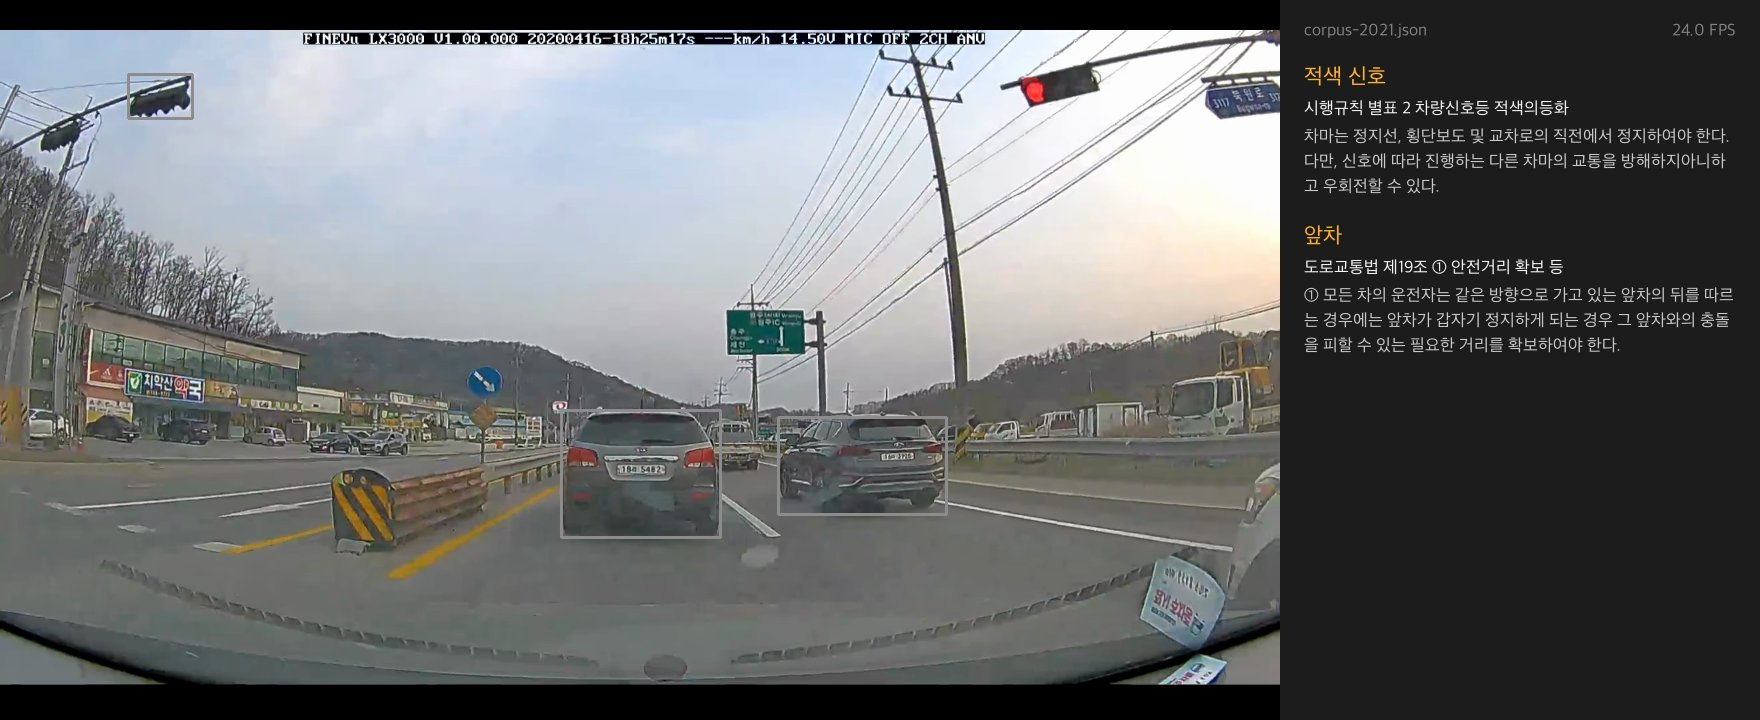
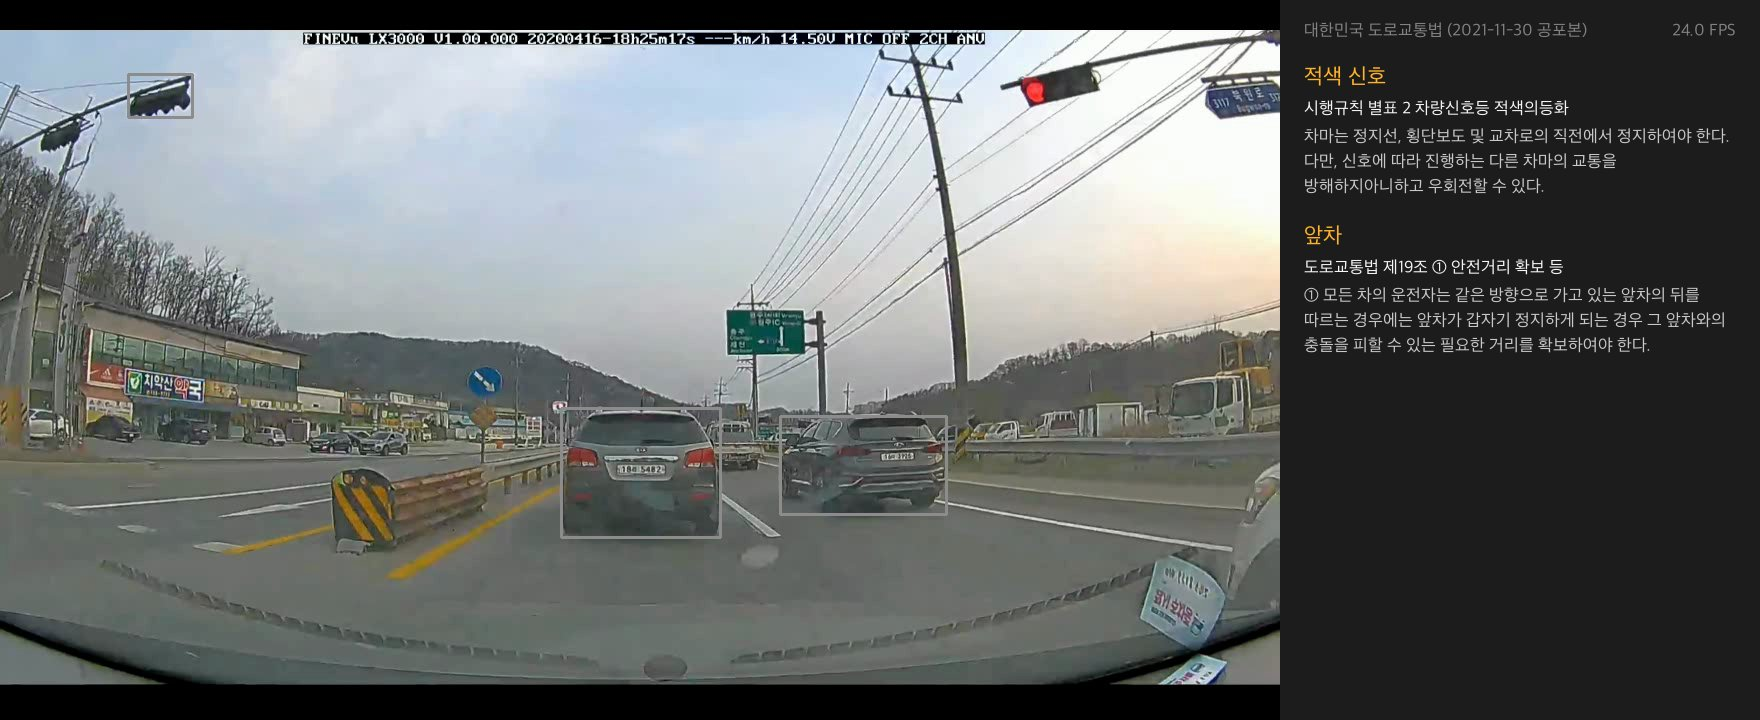
docs: 캘리포니아 코퍼스와 비벌리힐스 시연 영상 문서화

diff --git a/Project03/README.md b/Project03/README.md
@@ -2,13 +2,25 @@
 
 주행 영상에서 YOLO로 차량, 보행자, 신호등을 찾습니다. 찾은 객체를 "적색 신호", "앞차" 같은 장면 상태로 바꿉니다. 장면 상태마다 도로교통법 코퍼스를 BM25로 검색하고, 근거 조문을 화면 오른쪽에 보여 줍니다.
 
-모델이 학습한 지식 대신 실제 법령 문서를 근거로 판단을 보여 주는 Retrieval-Augmented 구조입니다. 법령이 개정되면 모델을 다시 학습하지 않습니다. 코퍼스 파일만 바꾸면 같은 영상에서 다른 조문이 나옵니다.
+모델이 학습한 지식 대신 실제 법령 문서를 근거로 판단을 보여 주는 Retrieval-Augmented 구조입니다. 법령이 개정되거나 다른 나라에서 달리면 모델을 다시 학습하지 않습니다. 코퍼스 파일만 바꾸면 같은 영상에서 그 판, 그 나라의 조문이 나옵니다. 코퍼스는 한국 도로교통법 현행판, 2021년판, 캘리포니아 차량법(California Vehicle Code) 세 개입니다.
+
+**같은 장면, 다른 판.** 원주 영상의 적색 신호 장면입니다.
 
 | 현행 코퍼스 (`corpus-current.json`) | 2021년 코퍼스 (`corpus-2021.json`) |
 |---|---|
 | ![현행 코퍼스의 적색 신호 조문](docs/red-signal-current.jpg) | ![2021년 코퍼스의 적색 신호 조문](docs/red-signal-2021.jpg) |
 
-같은 적색 신호 장면입니다. 현행 시행규칙 별표 2는 우회전하기 전에 정지선 직전에서 정지하라고 정합니다. 2021년 판은 정지 없이 우회전할 수 있다고 정합니다. 두 화면은 영상 110.5초 프레임을 저장한 것입니다. 화면 오른쪽 위 FPS 값은 저장용 스크립트가 넣은 고정값이며 측정값이 아닙니다.
+현행 시행규칙 별표 2는 우회전하기 전에 정지선 직전에서 정지하라고 정합니다. 2021년 판은 정지 없이 우회전할 수 있다고 정합니다.
+
+**같은 장면, 다른 나라.** 비벌리힐스 영상의 적색 신호와 보행자 장면입니다.
+
+| 현행 코퍼스 | 2021년 코퍼스 | 캘리포니아 코퍼스 (`corpus-california.json`) |
+|---|---|---|
+| ![현행 코퍼스의 비벌리힐스 장면](docs/beverly-current.jpg) | ![2021년 코퍼스의 비벌리힐스 장면](docs/beverly-2021.jpg) | ![캘리포니아 코퍼스의 비벌리힐스 장면](docs/beverly-california.jpg) |
+
+보행자 패널은 현행 제27조 ①("통행하려고 하는 때"를 포함), 2021년 제27조 ①, 캘리포니아 차량법 21950조 (a)를 보여 줍니다. 적색 신호 패널은 캘리포니아에서 21453조 (b)("after stopping … may turn right")를 보여 줍니다.
+
+그림 다섯 장은 원주 시연 영상 25.5초(원본 111.5초)와 비벌리힐스 시연 영상 46초(원본 486초) 프레임을 저장한 것입니다. 화면 오른쪽 위 FPS 값은 저장용 스크립트가 넣은 영상 FPS이며 처리 속도 측정값이 아닙니다.
 
 ## 파일 구조
 
@@ -18,12 +30,14 @@ Project03/
 ├── detect.py            YOLO 탐지 결과를 장면 상태로 바꿈, 신호등 색 판정(HSV)
 ├── retrieve.py          BM25 검색기와 장면 상태별 검색 문장
 ├── hud.py               탐지 박스와 근거 조문 패널 그리기
-├── build_corpus.py      국가법령정보 Open API로 코퍼스 JSON 생성 (Mac에서 한 번 실행)
+├── build_corpus.py      코퍼스 JSON 세 개 생성 (Mac에서 한 번 실행)
 ├── corpus-current.json  현행 도로교통법(항 단위)과 시행규칙 별표 2(신호 종류 단위)
 ├── corpus-2021.json     2022년 1월 개정 직전 공포본으로 만든 같은 구성의 코퍼스
+├── corpus-california.json  캘리포니아 차량법 제11편 Rules of the Road(항 단위, 영어)
 ├── tests/
 │   └── test_retrieve.py 장면 상태별 정답 조문 검색 평가
 ├── docs/                README 그림
+├── data/                캘리포니아 의회 일괄 파일 (git에 올리지 않음)
 └── videos/              주행 영상 (git에 올리지 않음)
 ```
 
@@ -47,15 +61,25 @@ Project03/
 
 ### 주행 영상
 
-영상은 위키미디어 공용의 [2020-04-16 원주시 도로주행](https://commons.wikimedia.org/wiki/File:2020-04-16_%EC%9B%90%EC%A3%BC%EC%8B%9C_%EB%8F%84%EB%A1%9C%EC%A3%BC%ED%96%89.webm)을 씁니다. 촬영자는 Choi Kwang-mo이고 라이선스는 CC0(퍼블릭 도메인)입니다. 원본은 1920×1080, 24 FPS, 182초, VP9(.webm), 254MB입니다.
+영상은 두 개를 씁니다. 두 영상 모두 레포에 넣지 않습니다.
 
-영상 파일은 레포에 넣지 않습니다. 아래 명령으로 `videos/`에 내려받습니다.
+**원주 영상(한국 블랙박스).** 위키미디어 공용의 [2020-04-16 원주시 도로주행](https://commons.wikimedia.org/wiki/File:2020-04-16_%EC%9B%90%EC%A3%BC%EC%8B%9C_%EB%8F%84%EB%A1%9C%EC%A3%BC%ED%96%89.webm)을 씁니다. 촬영자는 Choi Kwang-mo이고 라이선스는 CC0(퍼블릭 도메인)입니다. 원본은 1920×1080, 24 FPS, 182초, VP9(.webm), 254MB입니다.
+
+아래 명령으로 `videos/`에 내려받습니다.
 
 ```bash
 mkdir -p videos && curl -L -o videos/wonju-2020-04-16.webm "https://upload.wikimedia.org/wikipedia/commons/c/c3/2020-04-16_%EC%9B%90%EC%A3%BC%EC%8B%9C_%EB%8F%84%EB%A1%9C%EC%A3%BC%ED%96%89.webm"
 ```
 
 시연에는 원본의 86~118초를 1280×720 mp4(`mp4v` 코덱)로 다시 저장한 `videos/wonju-demo.mp4`를 씁니다. 이 구간에서 앞차는 시연 영상 4.7초와 24초 부근에, 적색 신호는 24.5~27.4초(원본 110.5초)에 패널에 나옵니다. 원본 90초의 적색 신호는 이 파일에서 5프레임 연속 탐지가 되지 않아 패널에 나오지 않습니다. Jetson의 OpenCV가 VP9을 읽지 못할 경우에 대비한 파일입니다. Mac에서 OpenCV `VideoWriter`로 만들었습니다.
+
+**비벌리힐스 영상(미국 캘리포니아).** 위키미디어 공용의 [Driving through BEVERLY HILLS, Los Angeles, California (HD)](https://commons.wikimedia.org/wiki/File:Driving_through_BEVERLY_HILLS,_Los_Angeles,_California_(HD).webm)을 씁니다. 촬영자는 Kauko Helavuo이고 라이선스는 [CC BY 3.0](https://creativecommons.org/licenses/by/3.0)입니다. 원본은 2014-07-09 촬영, 1920×1080(4:3 화면에 좌우 검은 띠), 25 FPS, 500초, 172MB입니다. 원본을 자르고 크기를 바꿔 시연 영상을 만들었습니다.
+
+```bash
+curl -L -o videos/beverly-hills.webm "https://upload.wikimedia.org/wikipedia/commons/9/92/Driving_through_BEVERLY_HILLS%2C_Los_Angeles%2C_California_%28HD%29.webm"
+```
+
+시연에는 원본의 440~497초를 1280×720 mp4로 다시 저장한 `videos/beverly-demo.mp4`를 씁니다. 이 구간에는 STOP 표지, 황색·적색·녹색 신호, 횡단보도 앞 보행자가 나옵니다.
 
 ### 실행 명령
 
@@ -65,6 +89,10 @@ python main.py videos/wonju-demo.mp4
 
 ```bash
 python main.py videos/wonju-demo.mp4 --corpus corpus-2021.json
+```
+
+```bash
+python main.py videos/beverly-demo.mp4 --corpus corpus-california.json
 ```
 
 Jetson에서는 04 노트북에서 만든 TensorRT 엔진을 넘깁니다.
@@ -78,8 +106,8 @@ python main.py videos/wonju-demo.mp4 --model ../src/models/YOLO/yolo11n_fp16.eng
 ### 화면
 
 - 왼쪽: 영상과 탐지 박스. 장면 상태를 만든 박스는 주황색 박스와 상태 이름으로, 나머지 탐지는 회색 박스로 그립니다.
-- 오른쪽 패널 위: 사용 중인 코퍼스 파일 이름과 처리 FPS
-- 오른쪽 패널: 장면 상태마다 상태 이름, 근거 조문 번호와 제목, 본문 앞 다섯 줄
+- 오른쪽 패널 위: 코퍼스 이름과 처리 FPS
+- 오른쪽 패널: 장면 상태마다 상태 이름, 근거 조문 번호와 제목, 본문 앞 다섯 줄. 줄은 공백 위치에서 바꿉니다.
 
 ### 처리 과정 (한 프레임)
 
@@ -90,7 +118,7 @@ python main.py videos/wonju-demo.mp4 --model ../src/models/YOLO/yolo11n_fp16.eng
    - 승용차, 트럭: 화면의 3% 이상이고 화면 가운데 3분의 1에 있을 때 앞차가 됩니다.
    - 화면 아래 20%에 중심이 있는 박스는 버립니다. 이 영역에는 보닛과 유리창 스티커가 있어 정지 표지 오탐이 생깁니다.
 3. 상태마다 5프레임 연속 탐지되면 확정하고, 확정이 끊긴 뒤에도 2초 동안 패널에 남깁니다.
-4. 패널의 상태 목록이 바뀐 프레임에서만 상태마다 BM25 1위 항목을 검색합니다.
+4. 패널의 상태 목록이 바뀐 프레임에서만, 코퍼스에 담긴 상태별 검색 문장으로 BM25 1위 항목을 검색합니다.
 5. 처리가 영상보다 빠르면 남는 시간만큼 기다려 원래 속도로 재생합니다.
 
 ### 테스트와 평가
@@ -99,16 +127,25 @@ python main.py videos/wonju-demo.mp4 --model ../src/models/YOLO/yolo11n_fp16.eng
 python -m unittest discover -s tests -t .
 ```
 
-- 두 코퍼스 모두에서 장면 상태 7개(적색·황색·녹색 신호, 보행자, 자전거, 앞차, 정지 표지)의 BM25 1위가 정답 항목과 같은지 확인합니다.
+- 세 코퍼스 모두에서 장면 상태 7개(적색·황색·녹색 신호, 보행자, 자전거, 앞차, 정지 표지)의 BM25 1위가 정답 항목과 같은지 확인합니다. 캘리포니아 정답은 21453(b), 21452(a), 21451(a), 21950(a), 21760(c), 21703, 22450(a)입니다.
 - 적색 신호(별표 2)와 보행자(제27조 ①)의 1위 본문이 두 판에서 다른지 확인합니다.
 - 2026-10-31 Mac에서 2개 테스트가 모두 통과했습니다. Mac(Apple Silicon, CPU)의 프레임당 처리 시간은 약 21ms였습니다.
+- 비벌리힐스 시연 영상에서 정지 표지(2초), 앞차, 보행자(12.1초, 44.3초), 황색 신호(33.8초), 적색 신호(44.6초), 녹색 신호(49.3초)가 패널에 나왔습니다.
 
 ## 법령 코퍼스
+
+### 파일 형식
+
+코퍼스 파일은 `{"name", "queries", "articles"}` 사전입니다. `queries`는 장면 상태 이름별 검색 문장이고, 그 법령이 쓰는 말로 씁니다. 한국어 문장으로는 영어 차량법을 검색할 수 없기 때문입니다. 검색 문장이 코드가 아니라 코퍼스에 있으므로, 나라를 바꿀 때 코드를 고치지 않습니다.
 
 ### 생성
 
 ```bash
-python build_corpus.py <국가법령정보 Open API 인증키(OC)>
+curl -o data/pubinfo_2025.zip https://downloads.leginfo.legislature.ca.gov/pubinfo_2025.zip
+```
+
+```bash
+python build_corpus.py <국가법령정보 Open API 인증키(OC)> data/pubinfo_2025.zip
 ```
 
 - 인증키는 [국가법령정보 공동활용](https://open.law.go.kr)에서 발급받은 본인 키를 씁니다. 레포에는 적지 않습니다.
@@ -130,11 +167,20 @@ python build_corpus.py <국가법령정보 Open API 인증키(OC)>
 
 - 도로교통법은 항마다 한 항목입니다. `id`는 `도로교통법 제27조 ①` 형식입니다.
 - 시행규칙 별표 2(신호기가 표시하는 신호의 종류 및 신호의 뜻)는 신호 종류마다 한 항목입니다. 제목은 `차량신호등 적색의등화` 형식입니다.
-- 항목 수는 현행 592개, 2021년 536개입니다.
+- 캘리포니아 차량법은 제11편(Division 11, Rules of the Road) 현행 조문 567개를 항(subdivision)마다 한 항목으로 나눕니다. `id`는 `CVC §21453(b)` 형식이고, 캘리포니아 법전에는 조문 제목이 없어 `title`은 비어 있습니다.
+- 항목 수는 현행 592개, 2021년 536개, 캘리포니아 1,694개입니다.
+
+### 캘리포니아 차량법 출처
+
+- 캘리포니아 의회가 공개하는 일괄 데이터 [pubinfo_2025.zip](https://downloads.leginfo.legislature.ca.gov/)(2025–2026 회기, 2026-10-25 갱신, 1.2GB)의 `LAW_SECTION_TBL`에서 읽습니다.
+- 의회 웹사이트(leginfo.legislature.ca.gov)는 스크립트 접근을 Cloudflare 확인 페이지로 막아서 쓰지 않았습니다.
+- 미국 교통 법규는 주마다 다릅니다. 비벌리힐스 영상과 같은 지역인 캘리포니아주 법을 골랐습니다.
 
 ## 한계
 
-- 영상에 보행자 장면이 없습니다. 보행자 규정은 단위 테스트로만 확인했습니다.
+- 원주 영상에는 보행자 장면이 없습니다. 보행자 장면은 비벌리힐스 영상으로 확인합니다.
+- 비벌리힐스 영상은 블랙박스가 아니라 손으로 든 카메라로 찍은 영상입니다. 앞차 판정(화면 가운데 3분의 1)과 화면 아래 20% 제외 규칙은 블랙박스 화면을 기준으로 정한 값입니다.
+- 검색 문장은 사람이 법령 용어로 썼습니다. 캘리포니아 정지 표지 문장은 처음 쓴 문장("stop sign at entrance to intersection …")으로는 21457조(점멸 적색 신호)가 1위였고, 조문 용어("approaching a stop sign …")로 고쳐 쓴 뒤 22450조 (a)가 1위가 되었습니다. 영어를 단어 단위로 나눠 시험했을 때는 처음 문장으로도 7개 모두 1위였습니다. 문자 바이그램은 영어에서 낱말 경계를 잃어 한국어보다 검색 문장에 민감합니다.
 - COCO 모델은 횡단보도, 차선, 한국 교통안전표지를 찾지 못합니다. 장면 상태는 6개 클래스와 신호등 색으로 만들 수 있는 7개뿐입니다.
 - 별표 2는 선 문자 표에서 글자를 읽습니다. 칸 안 줄바꿈이 낱말 중간에서 일어나 일부 띄어쓰기(`교통을방해하지`)는 복원하지 못합니다.
 - 패널은 장면 상태 3개까지 화면 안에 들어갑니다. 4개 이상이면 아래 항목이 잘립니다.
